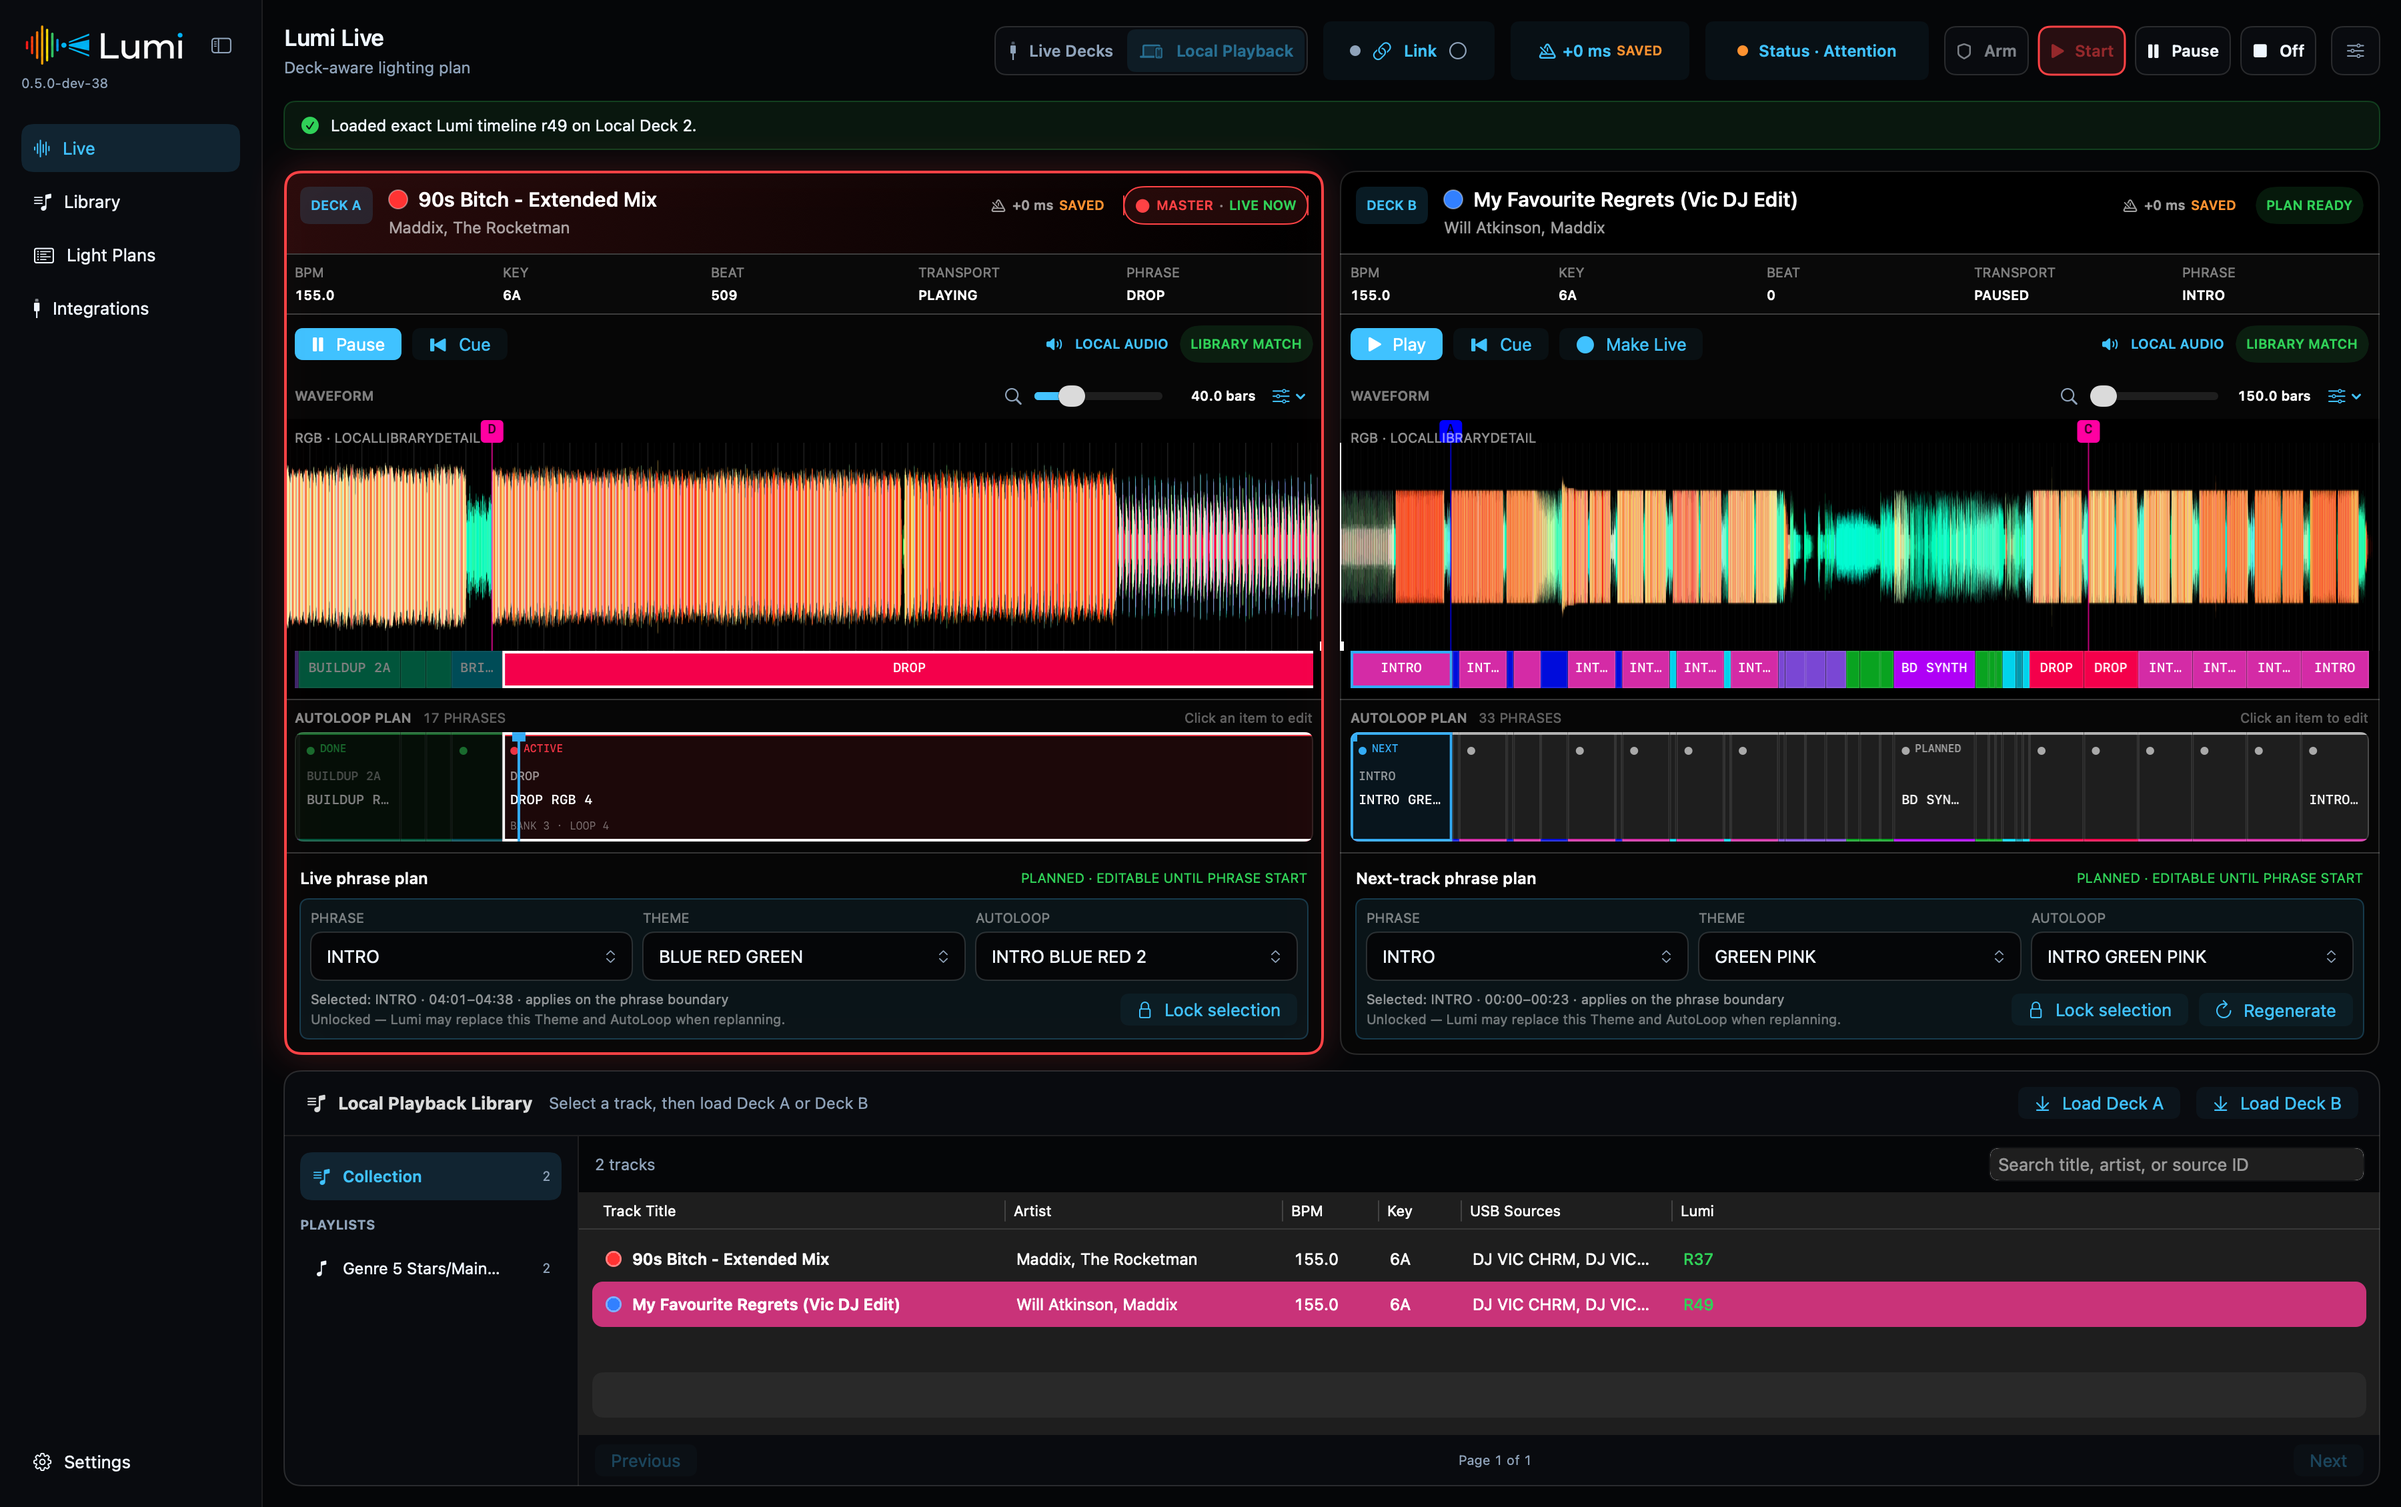
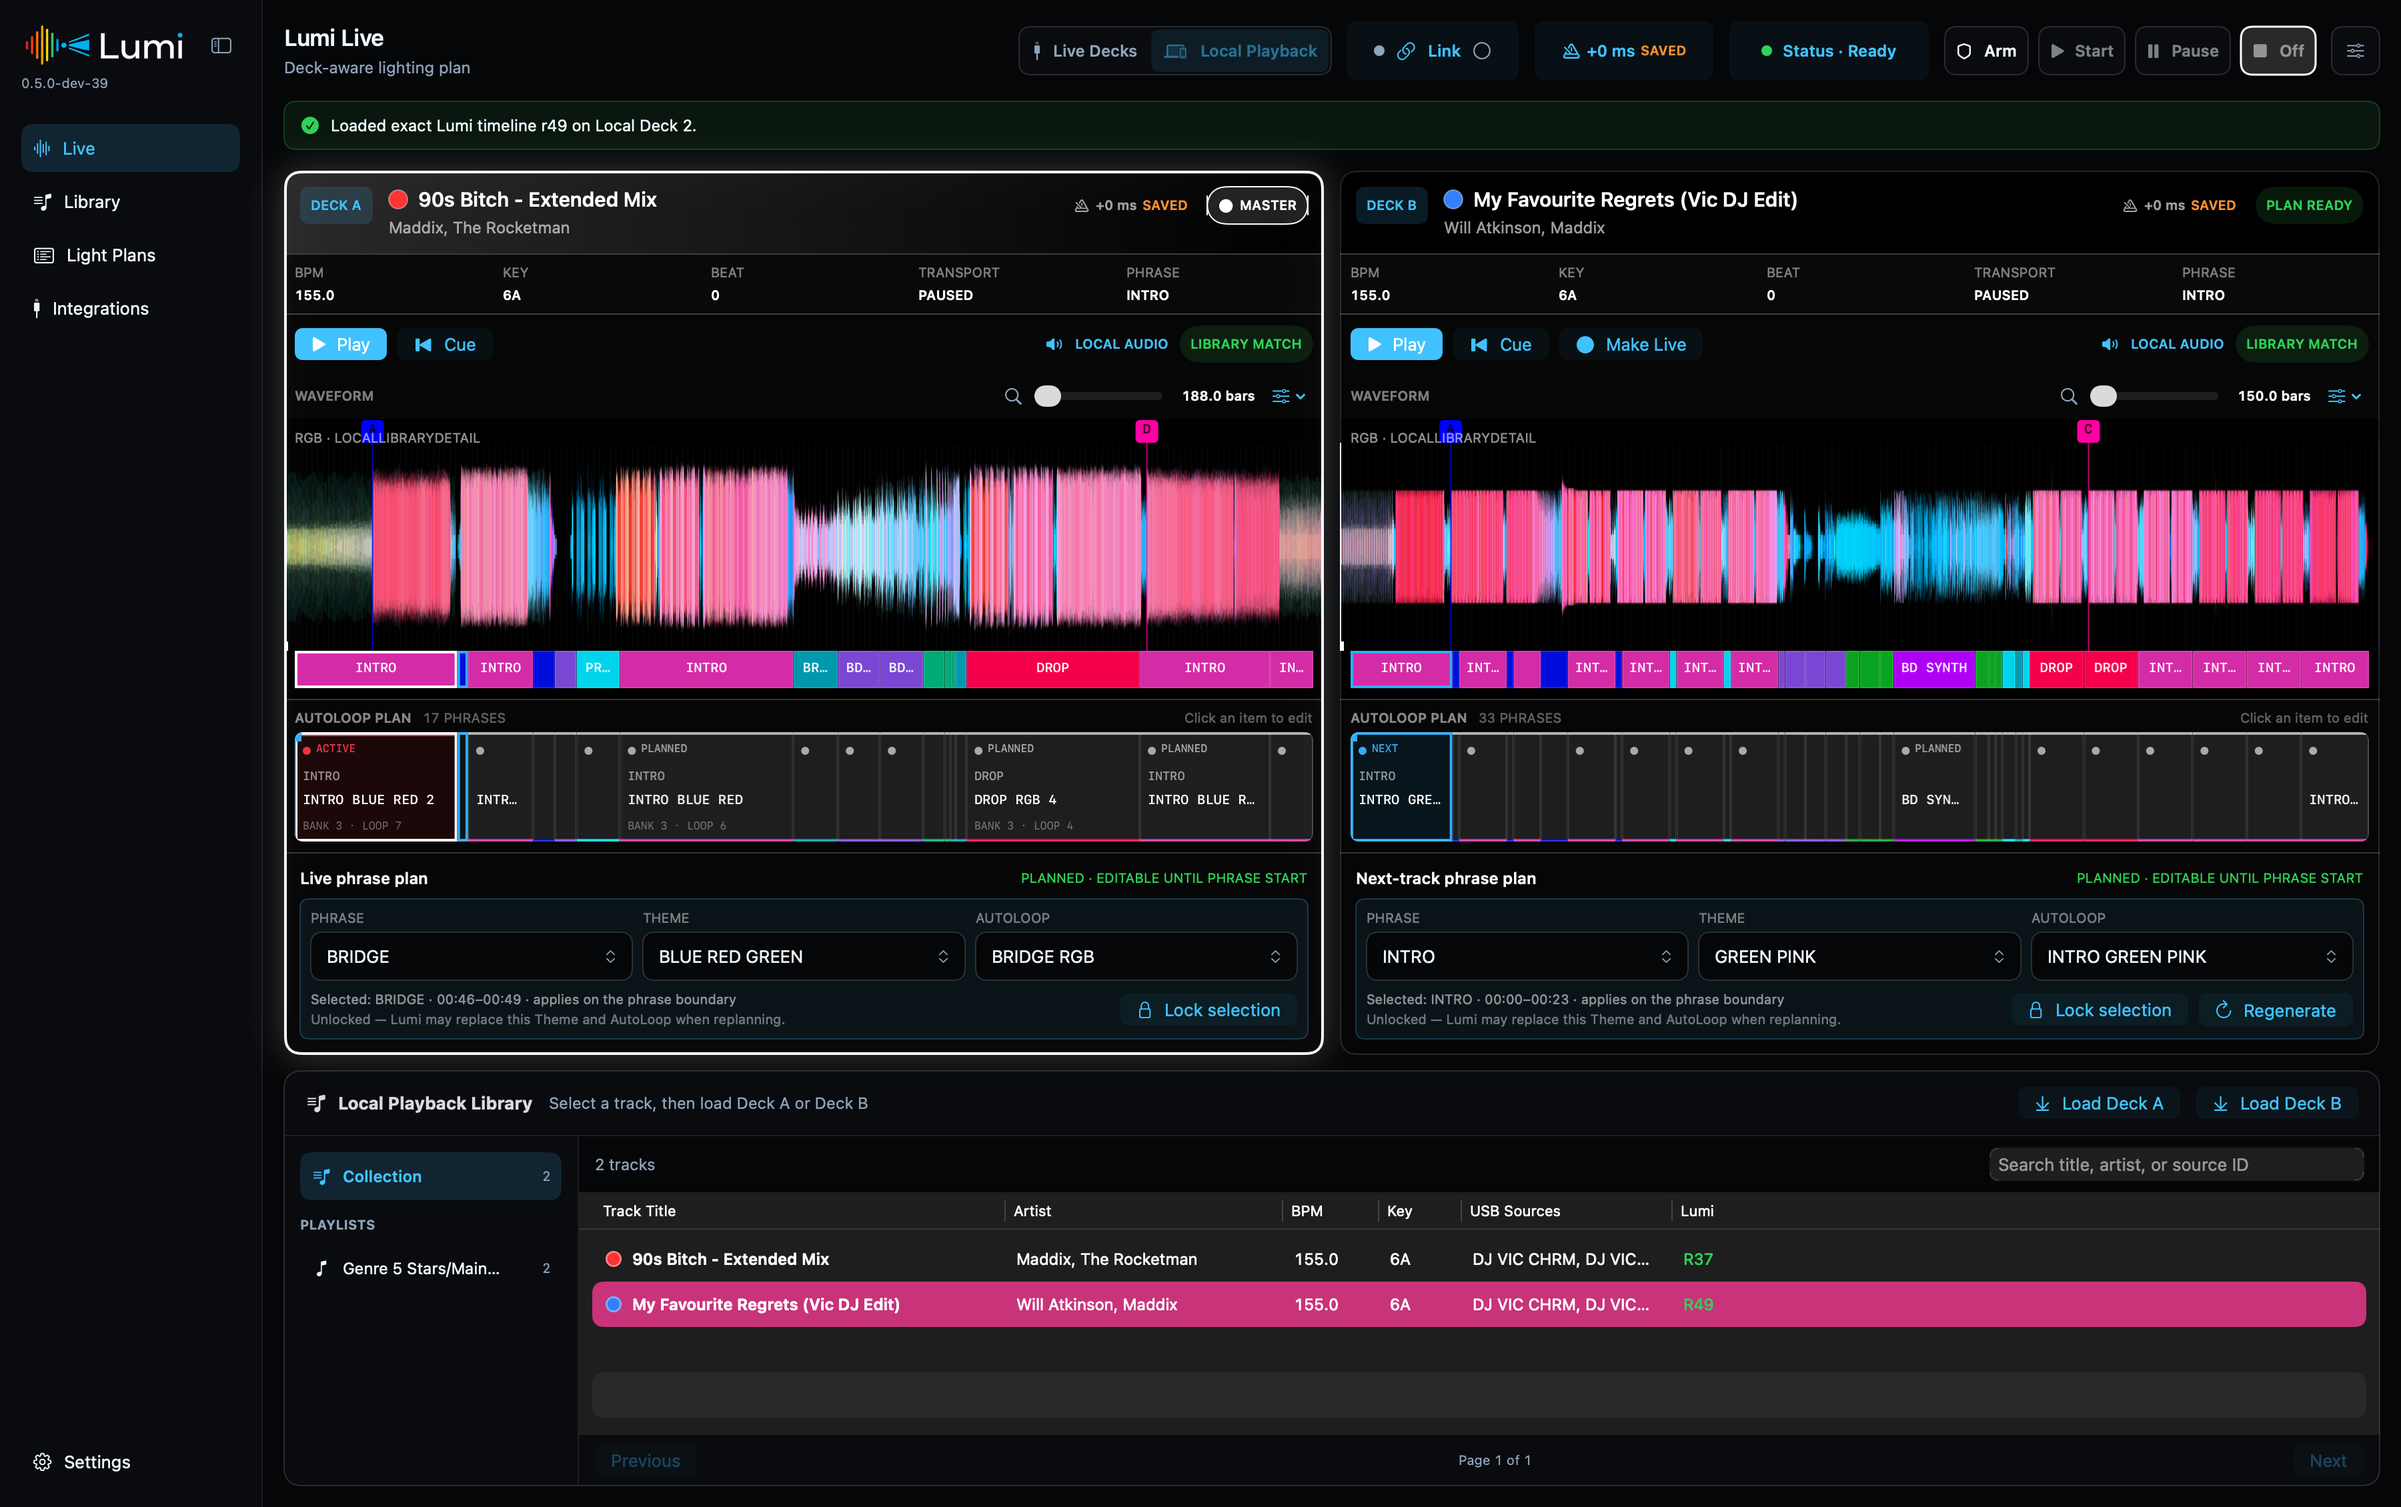
fix(waveform): restore approved RGB palette

diff --git a/apps/macos/Packages/LumiLibraryWorkspace/Sources/LumiLibraryWorkspace/Views/TrackLightingEditorView.swift b/apps/macos/Packages/LumiLibraryWorkspace/Sources/LumiLibraryWorkspace/Views/TrackLightingEditorView.swift
@@ -1757,22 +1757,22 @@ public struct TrackLightingEditorView: View {
         maximumAmplitude: Double,
         point: (low: Double, mid: Double, high: Double)
     ) {
-        let peak = max(point.low, max(point.mid, point.high))
-        guard peak > 0.000_1 else { return }
-        let amplitude = pow(peak, 0.58) * maximumAmplitude
+        guard let sample = LumiRGBWaveformSample(
+            low: point.low,
+            mid: point.mid,
+            high: point.high
+        ) else { return }
+        let amplitude = sample.amplitude * maximumAmplitude
         // Rekordbox PWV5 packs hue and height into the same channels. Height
         // controls geometry; normalizing the hue prevents quiet samples from
         // being dimmed a second time while preserving their RGB character.
-        let red = pow(point.high / peak, 0.72)
-        let green = pow(point.mid / peak, 0.72)
-        let blue = pow(point.low / peak, 0.72)
         var line = Path()
         line.move(to: CGPoint(x: x, y: center - amplitude))
         line.addLine(to: CGPoint(x: x, y: center + amplitude))
         context.stroke(
             line,
             with: .color(
-                Color(red: red, green: green, blue: blue).opacity(0.98)
+                Color(red: sample.red, green: sample.green, blue: sample.blue).opacity(0.98)
             ),
             lineWidth: 1
         )

diff --git a/apps/macos/Packages/LumiLiveWorkspace/Sources/LumiLiveWorkspace/Views/LiveDeckSurface.swift b/apps/macos/Packages/LumiLiveWorkspace/Sources/LumiLiveWorkspace/Views/LiveDeckSurface.swift
@@ -972,13 +972,16 @@ private struct RGBDeckWaveform: View {
             let low = mix(first.low, second.low)
             let mid = mix(first.mid, second.mid)
             let high = mix(first.high, second.high)
-            let peak = max(low, max(mid, high))
-            guard peak > 0.000_1 else { continue }
-            let amplitude = pow(peak, 0.58) * maximumAmplitude
+            guard let sample = LumiRGBWaveformSample(
+                low: low,
+                mid: mid,
+                high: high
+            ) else { continue }
+            let amplitude = sample.amplitude * maximumAmplitude
             context.setStrokeColor(
-                red: pow(high / peak, 0.72),
-                green: pow(mid / peak, 0.72),
-                blue: pow(low / peak, 0.72),
+                red: sample.red,
+                green: sample.green,
+                blue: sample.blue,
                 alpha: 0.98
             )
             let x = Double(pixel) + 0.5

diff --git a/apps/macos/Packages/LumiDesignSystem/Tests/LumiDesignSystemTests/LumiRGBWaveformSampleTests.swift b/apps/macos/Packages/LumiDesignSystem/Tests/LumiDesignSystemTests/LumiRGBWaveformSampleTests.swift
@@ -1,0 +1,31 @@
+import Foundation
+import Testing
+@testable import LumiDesignSystem
+
+struct LumiRGBWaveformSampleTests {
+    @Test
+    func mapsStoredPWV5FieldsToApprovedRGBOrder() throws {
+        let sample = try #require(
+            LumiRGBWaveformSample(low: 0.25, mid: 0.5, high: 1)
+        )
+
+        #expect(sample.red == 1)
+        #expect(sample.green < sample.blue)
+        #expect(abs(sample.green - pow(0.25, 0.72)) < 0.000_001)
+        #expect(abs(sample.blue - pow(0.5, 0.72)) < 0.000_001)
+    }
+
+    @Test
+    func preservesApprovedAmplitudeCurve() throws {
+        let sample = try #require(
+            LumiRGBWaveformSample(low: 0.2, mid: 0.4, high: 0.8)
+        )
+
+        #expect(abs(sample.amplitude - pow(0.8, 0.58)) < 0.000_001)
+    }
+
+    @Test
+    func omitsSilentSamples() {
+        #expect(LumiRGBWaveformSample(low: 0, mid: 0, high: 0) == nil)
+    }
+}

diff --git a/apps/macos/Packages/LumiDesignSystem/Sources/LumiDesignSystem/Music/LumiRGBWaveformSample.swift b/apps/macos/Packages/LumiDesignSystem/Sources/LumiDesignSystem/Music/LumiRGBWaveformSample.swift
@@ -1,0 +1,23 @@
+import Foundation
+
+/// The single display mapping for Lumi's Rekordbox-compatible RGB waveforms.
+///
+/// Stored waveform points retain the engine's frequency-band field names. The
+/// approved CDJ/Rekordbox-style presentation uses the packed PWV5 channel order
+/// red, green, blue, which maps to high, low, mid in those stored fields.
+public struct LumiRGBWaveformSample: Equatable, Sendable {
+    public let amplitude: Double
+    public let red: Double
+    public let green: Double
+    public let blue: Double
+
+    public init?(low: Double, mid: Double, high: Double) {
+        let peak = max(low, max(mid, high))
+        guard peak > 0.000_1 else { return nil }
+
+        amplitude = pow(peak, 0.58)
+        red = pow(high / peak, 0.72)
+        green = pow(low / peak, 0.72)
+        blue = pow(mid / peak, 0.72)
+    }
+}

diff --git a/apps/macos/Packages/LumiLiveWorkspace/Sources/LumiLiveWorkspace/Views/LiveWorkspaceView.swift b/apps/macos/Packages/LumiLiveWorkspace/Sources/LumiLiveWorkspace/Views/LiveWorkspaceView.swift
@@ -1259,7 +1259,7 @@ private struct PlanSelectionControl: View {
 #Preview("Ready · Dark") {
     LiveWorkspaceView(
         state: LiveWorkspaceFixtures.ready,
-        productVersion: "0.5.0-dev-38",
+        productVersion: "0.5.0-dev-39",
         appearance: .constant(.dark),
         keyNotation: .constant(.camelot)
     )
@@ -1270,7 +1270,7 @@ private struct PlanSelectionControl: View {
 #Preview("Fallback · Light") {
     LiveWorkspaceView(
         state: LiveWorkspaceFixtures.fallback,
-        productVersion: "0.5.0-dev-38",
+        productVersion: "0.5.0-dev-39",
         appearance: .constant(.light),
         keyNotation: .constant(.classic)
     )

diff --git a/apps/macos/Packages/LumiLiveWorkspace/Sources/LumiVisualEvidence/LumiVisualEvidence.swift b/apps/macos/Packages/LumiLiveWorkspace/Sources/LumiVisualEvidence/LumiVisualEvidence.swift
@@ -100,7 +100,7 @@ struct LumiVisualEvidenceCommand {
                 canvas
                 LiveWorkspaceView(
                     state: variant.state,
-                    productVersion: "0.5.0-dev-38",
+                    productVersion: "0.5.0-dev-39",
                     appearance: .constant(variant.appearance),
                     keyNotation: .constant(variant.keyNotation),
                     allowsScrolling: false

diff --git a/apps/macos/Packages/LumiLiveWorkspace/Sources/LumiLiveWorkspace/Previews/LiveWorkspaceFixtures.swift b/apps/macos/Packages/LumiLiveWorkspace/Sources/LumiLiveWorkspace/Previews/LiveWorkspaceFixtures.swift
@@ -3,7 +3,7 @@ import Foundation
 public enum LiveWorkspaceFixtures {
     public static let readySnapshot = EngineSnapshot(
         endpoint: "127.0.0.1:52841",
-        engineVersion: "0.5.0-dev-38",
+        engineVersion: "0.5.0-dev-39",
         protocolVersion: 1,
         snapshotSequence: 42,
         stateRevision: 8,

diff --git a/bridges/prolink/src/main/java/co/victorblan/tech/lumi/prolink/BridgeProtocol.java b/bridges/prolink/src/main/java/co/victorblan/tech/lumi/prolink/BridgeProtocol.java
@@ -3,7 +3,7 @@ package co.victorblan.tech.lumi.prolink;
 final class BridgeProtocol {
     static final String NAME = "lumi-prolink-bridge";
     static final int VERSION = 1;
-    static final String BRIDGE_VERSION = "0.5.0-dev-38";
+    static final String BRIDGE_VERSION = "0.5.0-dev-39";
     static final String BEAT_LINK_VERSION = "8.0.0";
 
     private BridgeProtocol() {

diff --git a/tools/prolink-simulator/src/main/java/co/victorblan/tech/lumi/prolink/simulator/RemoteControlServer.java b/tools/prolink-simulator/src/main/java/co/victorblan/tech/lumi/prolink/simulator/RemoteControlServer.java
@@ -66,7 +66,7 @@ final class RemoteControlServer implements AutoCloseable {
         sendJson(exchange, 200, Map.of(
                 "status", "ready",
                 "service", "lumi-prolink-simulator",
-                "version", "0.5.0-dev-38"
+                "version", "0.5.0-dev-39"
         ));
     }
 

diff --git a/docs/release/0.5.0-dev-39-waveform-color-fidelity.md b/docs/release/0.5.0-dev-39-waveform-color-fidelity.md
@@ -1,0 +1,22 @@
+# Lumi 0.5.0-dev-39 — waveform color fidelity
+
+## Outcome
+
+Lumi again renders the approved CDJ/Rekordbox-style RGB waveform palette in
+Track Editor, Local Playback and Live Decks. The change is deliberately limited
+to display-channel order; waveform geometry, resolution, beat alignment and
+timing remain unchanged.
+
+## Regression protection
+
+- One shared Design System mapping owns waveform amplitude and RGB output.
+- Tests pin the packed PWV5 channel order and existing amplitude curve.
+- Silent samples remain omitted.
+- Desktop acceptance covers a real imported track in both editing and playback
+  contexts before packaging.
+
+## Installation identity
+
+The Dev build remains isolated under the `Lumi Dev` bundle identity and keeps
+using the existing `Lumi Dev` application-support database. Older Dev app
+bundles can be removed without touching that data.

diff --git a/CHANGELOG.md b/CHANGELOG.md
@@ -1,5 +1,22 @@
 # Changelog
 
+## 0.5.0-dev-39 - 2026-08-30
+
+### Fixed
+
+- Restores the accepted vivid red, pink, cyan and blue RGB waveform palette in
+  Track Editor, Local Playback and Live Decks without changing waveform shape,
+  resolution or timing.
+- Centralizes the Rekordbox PWV5 display-channel mapping so every waveform view
+  uses the same color interpretation.
+
+### Verification
+
+- Adds Design System regression coverage for RGB channel order, amplitude and
+  silent samples.
+- Compares the real macOS Track Editor and Local Playback render against the
+  previously accepted waveform appearance before packaging the Dev app.
+
 ## 0.5.0-dev-38 - 2026-08-30
 
 ### Changed
